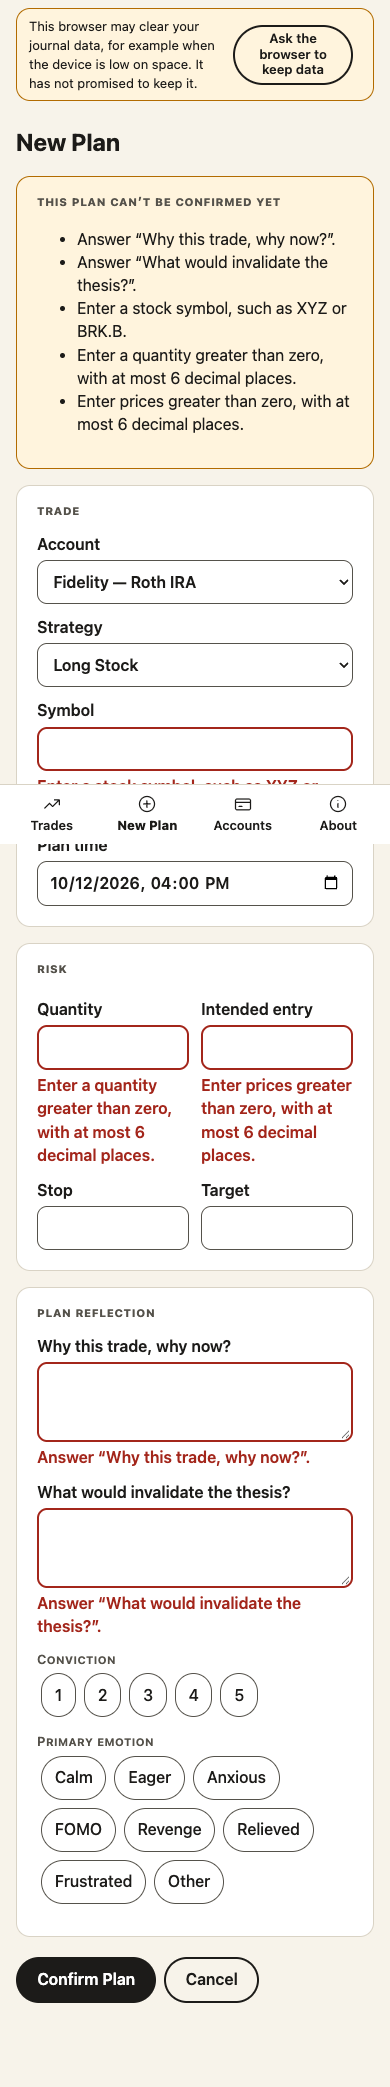
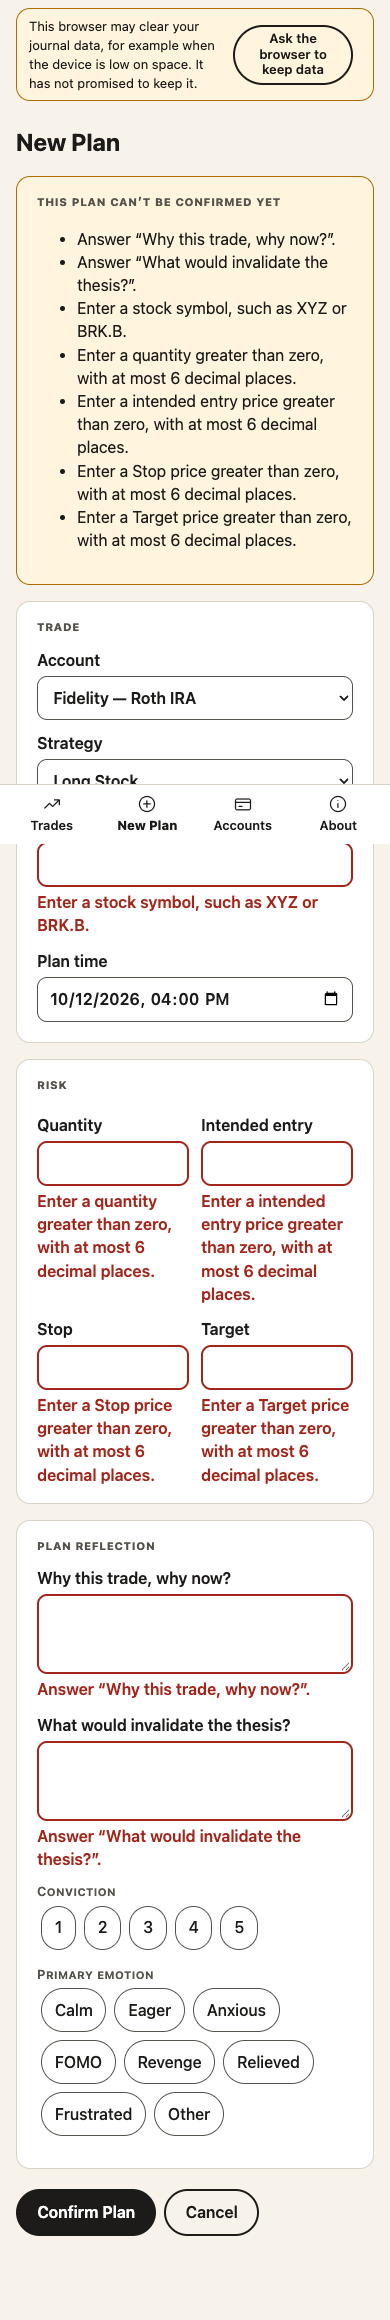
fix(ui): T2.55-B5 price issues on the field that fails
InvalidPrice carries no field from the domain, so the form attaches it to each submitted price that fails the domain's rule and clears each as its own price is corrected. Reference captures for the changed screens are regenerated.

Claude-Session: https://claude.ai/code/session_0115bntoBTHkkC72fZTEU7bt

Changed region(s): [[0.0308, 0.0, 0.9846, 0.9655], [0.8923, 0.654, 0.9231, 0.7786]]

diff --git a/src/ui/screens/PlanForm.test.tsx b/src/ui/screens/PlanForm.test.tsx
@@ -311,23 +311,48 @@ describe('New Plan issues', () => {
     expect(document.activeElement).toBe(screen.getByLabelText('Target'));
   });
 
-  it('should clear an InvalidPrice issue only when the entry, Stop and Target are all valid prices', async () => {
+  it.each([['Stop'], ['Target']])('should attach the price issue to a blank %s, not to the valid Intended entry', async (blank) => {
+    const facade = renderForm();
+    vi.mocked(facade.TradeWorkflows.confirmPlan).mockResolvedValue(rejection([analysis('InvalidPrice')]));
+    const user = await fillPlan();
+    await user.clear(screen.getByLabelText(blank));
+    await user.click(screen.getByRole('button', { name: 'Confirm Plan' }));
+    await screen.findByRole('region', { name: 'This Plan can’t be confirmed yet' });
+    const field = screen.getByLabelText(blank);
+    expect(field.getAttribute('aria-invalid')).toBe('true');
+    expect(described(field)).toMatch(/price greater than zero/i);
+    for (const other of ['Intended entry', 'Stop', 'Target'].filter((name) => name !== blank)) {
+      expect(screen.getByLabelText(other).getAttribute('aria-invalid')).toBeNull();
+      expect(screen.getByLabelText(other).getAttribute('aria-describedby')).toBeNull();
+    }
+    // One summary line for the one failing field.
+    expect(within(screen.getByRole('region', { name: 'This Plan can’t be confirmed yet' })).getAllByRole('listitem')).toHaveLength(1);
+  });
+
+  it('should attach the price issue to every price that fails, and clear each as its own price becomes valid', async () => {
     const facade = renderForm();
     vi.mocked(facade.TradeWorkflows.confirmPlan).mockResolvedValue(rejection([analysis('InvalidPrice')]));
     const user = await fillPlan();
     await user.clear(screen.getByLabelText('Stop'));
-    await user.type(screen.getByLabelText('Stop'), 'abc');
+    await user.clear(screen.getByLabelText('Target'));
+    await user.type(screen.getByLabelText('Target'), 'abc');
     await user.click(screen.getByRole('button', { name: 'Confirm Plan' }));
     await screen.findByRole('region', { name: 'This Plan can’t be confirmed yet' });
-    const entry = screen.getByLabelText('Intended entry');
-    expect(described(entry)).toMatch(/prices greater than zero/i);
+    const [entry, stop, target] = ['Intended entry', 'Stop', 'Target'].map((name) => screen.getByLabelText(name));
+    expect(entry!.getAttribute('aria-invalid')).toBeNull();
+    expect(described(stop!)).toMatch(/Stop price greater than zero/);
+    expect(described(target!)).toMatch(/Target price greater than zero/);
 
-    // The entry alone is valid, but the Stop still is not a price.
-    await user.type(entry, '1');
-    expect(described(entry)).toMatch(/prices greater than zero/i);
-    await user.clear(screen.getByLabelText('Stop'));
-    await user.type(screen.getByLabelText('Stop'), '47.50');
-    expect(entry.getAttribute('aria-describedby')).toBeNull();
+    // The Stop alone is corrected: its issue goes, the Target's stays with the summary.
+    await user.type(stop!, '47.50');
+    expect(stop!.getAttribute('aria-describedby')).toBeNull();
+    expect(stop!.getAttribute('aria-invalid')).toBeNull();
+    expect(described(target!)).toMatch(/Target price greater than zero/);
+    expect(within(screen.getByRole('region', { name: 'This Plan can’t be confirmed yet' })).getAllByRole('listitem')).toHaveLength(1);
+    await user.clear(target!);
+    await user.type(target!, '56.00');
+    expect(target!.getAttribute('aria-describedby')).toBeNull();
+    expect(screen.queryByRole('region', { name: 'This Plan can’t be confirmed yet' })).toBeNull();
   });
 
   it('should clear a MissingInstrument issue only when the symbol matches the symbol rule', async () => {

diff --git a/src/ui/screens/plan-issues.ts b/src/ui/screens/plan-issues.ts
@@ -20,15 +20,33 @@ const ANALYSIS: Record<string, FieldIssue> = {
   TargetNotBeyondEntry: { field: 'target', message: 'The Target must be above the intended entry.' },
   MissingTarget: { field: 'target', message: 'Enter a Target.' },
   InvalidQuantity: { field: 'quantity', message: 'Enter a quantity greater than zero, with at most 6 decimal places.' },
-  InvalidPrice: { field: 'entry', message: 'Enter prices greater than zero, with at most 6 decimal places.' },
   MissingInstrument: { field: 'symbol', message: 'Enter a stock symbol, such as XYZ or BRK.B.' },
   UnderlyingMismatch: { field: 'symbol', message: 'The leg must be in the Plan’s symbol.' },
   StrategyShapeMismatch: { field: 'strategy', message: 'This Plan does not fit the chosen Strategy.' },
 };
 
+export type PriceField = 'entry' | 'stop' | 'target';
+
+const PRICE_LABEL = { entry: 'intended entry', stop: 'Stop', target: 'Target' } as const;
+
+// The domain reports InvalidPrice once, without saying which price failed, so the form says which
+// submitted prices fail the domain's rule (`failing`); the issue goes to each of them, and to the
+// entry when none does (the server may judge more strictly than the form).
+function priceIssues(failing: readonly PriceField[]): FieldIssue[] {
+  return (failing.length > 0 ? failing : (['entry'] as const)).map((field) => ({
+    field,
+    message: `Enter a ${PRICE_LABEL[field]} price greater than zero, with at most 6 decimal places.`,
+    code: 'InvalidPrice',
+  }));
+}
+
 // Plain-language messages for every issue in a rejected confirmation, keyed to their fields.
-export function describeIssues(issues: readonly Issue[], definition: EntryDefinitionRecord): FieldIssue[] {
-  return issues.map((issue): FieldIssue => ({ ...describeIssue(issue, definition), code: issue.code }));
+export function describeIssues(issues: readonly Issue[], definition: EntryDefinitionRecord, failingPrices: readonly PriceField[]): FieldIssue[] {
+  return issues.flatMap((issue): FieldIssue[] =>
+    issue.source === 'TradeAnalysis' && issue.code === 'InvalidPrice'
+      ? priceIssues(failingPrices)
+      : [{ ...describeIssue(issue, definition), code: issue.code }],
+  );
 }
 
 function describeIssue(issue: Issue, definition: EntryDefinitionRecord): FieldIssue {

diff --git a/e2e/d2/ui-alignment.spec.ts b/e2e/d2/ui-alignment.spec.ts
@@ -8,6 +8,7 @@ import {
   confirmReference,
   expect,
   expectAccessible,
+  fillPlan,
   firstPage,
   onboardedD1Page,
   onboardedPage,
@@ -1278,6 +1279,24 @@ test.describe('T2.55-B4 narrow Net cost on an incoherent Open row', () => {
       else expect(tree, `no second line at ${width}`).not.toContain('Net cost');
       // Wide: the Net cost cell itself reads Not available.
       if (width >= WIDE_LAYOUT_MIN_WIDTH) await expect(row.locator('td').nth(2)).toHaveText('Not available');
+      await context.close();
+    });
+  }
+});
+
+test.describe('T2.55-B5 price issues on the field that fails', () => {
+  for (const blank of ['Stop', 'Target'] as const) {
+    test(`should mark a blank ${blank}, not the valid Intended entry, after Confirm Plan`, async ({ server, profile }) => {
+      void server;
+      const context = await profile.launch();
+      const page = await onboardedPage(context);
+      await page.getByRole('navigation', { name: 'Primary' }).getByRole('link', { name: 'New Plan' }).click();
+      await fillPlan(page, { ...PLAN, [blank.toLowerCase()]: '' });
+      await page.getByRole('button', { name: 'Confirm Plan' }).click();
+      await expect(page.getByRole('region', { name: 'This Plan can’t be confirmed yet' })).toBeVisible(READY);
+      await expect(page.getByLabel(blank)).toHaveAttribute('aria-invalid', 'true');
+      await expect(page.getByLabel(blank)).toHaveAccessibleDescription(/price greater than zero/);
+      await expect(page.getByLabel('Intended entry')).not.toHaveAttribute('aria-invalid', 'true');
       await context.close();
     });
   }

diff --git a/src/ui/screens/PlanForm.tsx b/src/ui/screens/PlanForm.tsx
@@ -133,7 +133,13 @@ export function PlanForm({ facade, timeZone, now, onDirtyChange }: PlanFormProps
     // A refusal switches the whole shell to Recovery Only; the form keeps its values.
     report(result);
     if (result.kind === 'Rejected') {
-      setIssues(describeIssues(result.issues, definition));
+      setIssues(
+        describeIssues(
+          result.issues,
+          definition,
+          (['entry', 'stop', 'target'] as const).filter((name) => !positiveDecimal(fields[name])),
+        ),
+      );
       setReported({ fields, answers });
     }
     if (result.kind === 'Confirmed') {
@@ -162,8 +168,6 @@ export function PlanForm({ facade, timeZone, now, onDirtyChange }: PlanFormProps
       case 'quantity':
         return changed('quantity') && positiveDecimal(fields.quantity) !== undefined;
       case 'entry':
-        // InvalidPrice does not say which price was wrong, so it clears when all three are valid.
-        if (issue.code === 'InvalidPrice') return (changed('entry') || changed('stop') || changed('target')) && !!entry && !!stop && !!target;
         return changed('entry') && !!entry;
       case 'stop':
         return (changed('stop') || changed('entry')) && !!stop && (issue.code !== 'NoPositiveRisk' || (!!entry && stop.compare(entry) < 0));

diff --git a/evidence/D02/tdd-log.md b/evidence/D02/tdd-log.md
@@ -727,3 +727,16 @@ Every `it should` case from D2's breakdown, section 4, run red and then green, o
 | T2.55-B4 | should show Net cost once in the accessibility tree of an incoherent Open row at 390 and 320 | red | `npx playwright test e2e/d2/ui-alignment.spec.ts -g "T2.55-B4"` (dist-faults built before the fix) | 2 failed (390, 320): `Net cost line at 390 Expected: 1 Received: undefined`, by hand | |
 | T2.55-B4 | (same) | green | `npm run build:faults && npx playwright test e2e/d2/ui-alignment.spec.ts -g "T2.55-B4"` | 3 passed (1280, 390, 320), by hand | |
 | T2.55-B4 | should show Net cost once in the accessibility tree of an incoherent Open row at 1280 | note | | First-run pass, flagged for the user: the 1280 case passed before the fix because T2.40 already hides `.trade-line` at wide and the Net cost cell reads Not available. Mutation: the wide `.trade-line` rule in `src/ui/app.css` (min-width 960) changed from `display: none` to `display: block`, dist-faults rebuilt. Command: `npx playwright test e2e/d2/ui-alignment.spec.ts -g "T2.55-B4.*at 1280"`. First failure line: `Error: no second line at 1280 ... Expected substring: not "Net cost"`. CSS restored (`git diff -- src/ui/app.css` empty), 3 passed again. | |
+| T2.55-B5 | should attach the price issue to a blank Stop | red | `npx vitest run src/ui/screens/PlanForm.test.tsx -t "should attach the price issue to a blank Stop"` | exit 1; Tests  1 failed, 17 skipped (18) | AssertionError: expected null to be 'true' // Object.is equality  |
+| T2.55-B5 | should attach the price issue to a blank Target | red | `npx vitest run src/ui/screens/PlanForm.test.tsx -t "should attach the price issue to a blank Target"` | exit 1; Tests  1 failed, 17 skipped (18) | AssertionError: expected null to be 'true' // Object.is equality  |
+| T2.55-B5 | should attach the price issue to every price that fails | red | `npx vitest run src/ui/screens/PlanForm.test.tsx -t "should attach the price issue to every price that fails"` | exit 1; Tests  1 failed, 17 skipped (18) | AssertionError: expected 'true' to be null  |
+| T2.55-B5 | should attach the price issue to a blank Stop | green | `npx vitest run src/ui/screens/PlanForm.test.tsx -t "should attach the price issue to a blank Stop"` | exit 0; Tests  1 passed, 17 skipped (18) |  |
+| T2.55-B5 | should attach the price issue to a blank Target | green | `npx vitest run src/ui/screens/PlanForm.test.tsx -t "should attach the price issue to a blank Target"` | exit 0; Tests  1 passed, 17 skipped (18) |  |
+| T2.55-B5 | should attach the price issue to every price that fails | green | `npx vitest run src/ui/screens/PlanForm.test.tsx -t "should attach the price issue to every price that fails"` | exit 0; Tests  1 passed, 17 skipped (18) |  |
+| T2.55-B5 | should attach the price issue to a blank Stop, not to the valid Intended entry | red | `npx vitest run src/ui/screens/PlanForm.test.tsx -t "should attach the price issue to a blank Stop"` | exit 1; `AssertionError: expected null to be 'true'` (Stop was not marked) | |
+| T2.55-B5 | should attach the price issue to a blank Target, not to the valid Intended entry | red | same file, `-t "should attach the price issue to a blank Target"` | exit 1; `AssertionError: expected null to be 'true'` | |
+| T2.55-B5 | should attach the price issue to every price that fails, and clear each as its own price becomes valid | red | same file | exit 1; `AssertionError: expected 'true' to be null` (Intended entry was marked) | |
+| T2.55-B5 | (the three cases) | green | `tdd.sh green` for each | all three exit 0 | |
+| T2.55-B5 | should mark a blank Stop / Target, not the valid Intended entry, after Confirm Plan | red | `npx playwright test e2e/d2/ui-alignment.spec.ts -g "T2.55-B5"` (dist-faults built before the fix) | 2 failed: `toHaveAttribute failed Expected: "true" Received: ""` on the blank field, by hand | |
+| T2.55-B5 | (note) | note | | The old case "should clear an InvalidPrice issue only when the entry, Stop and Target are all valid prices" encoded the defect (the issue on Intended entry, cleared only when all three were valid); it is replaced by the three cases above, which keep U4 per field. | |
+| T2.55-B5 | (browser) | green | `npm run build:faults && npx playwright test e2e/d1 e2e/d2` | 96 passed (2.8m), including both T2.55-B5 cases, by hand | |

diff --git a/evidence/D02/structural.md b/evidence/D02/structural.md
@@ -1887,3 +1887,11 @@ Main-session decision: the third round of swap hardening showed the backup itsel
 - **Cause:** `TradeList` built the Trade cell's second line only for a row with a Net cost value (`derived && netCost.kind === 'Value'`). An incoherent row has no `netCost`, so at narrow, where the Net cost column is hidden, the figure's "Not available" appeared nowhere.
 - **Fix:** the Open row's second line is always `Net cost <figure or Not available>`; wide still hides the line and shows the cell. This also gives a coherent row with no open quantity the same line. The Planned table has the same shape for 1R and Reward : risk on an incoherent Planned row (not in this defect; not changed).
 - **Tests:** a `TradeList` unit case; `T2.55-B4` at 1280, 390 and 320 in `ui-alignment.spec.ts` (fixture `UnknownPlannedLeg` on an Open Trade): the narrow tree has "Net cost Not available" exactly once. The existing disagreeing-row unit assertion now expects the added line.
+
+### T2.55-B5 price issues on the field that fails (critic-5 D5)
+
+- **Cause:** the domain's `assessPlan` returns `InvalidPrice` once, as `{ code }` with no field (the workflow adds only `source`), and the UI's `ANALYSIS` table mapped it to `entry` always. The domain still has no per-field path; it was not changed (the brief said to stop before changing domain types, and the UI already holds the submitted prices and the domain's rule via `positiveDecimal`).
+- **Fix:** `describeIssues` takes the submitted prices and expands `InvalidPrice` into one issue per price that fails `positiveDecimal` (entry, Stop, Target; the entry when none fails locally), each with its own message ("Enter a Stop price greater than zero, with at most 6 decimal places."). `PlanForm.corrected` clears each as its own field becomes valid (the special all-three rule is gone), so U4 and the summary are kept. Public view and domain types are unchanged.
+- **Tests:** three `PlanForm` unit cases (blank Stop, blank Target, several failing with per-field clearing) and `T2.55-B5` in `ui-alignment.spec.ts`.
+
+**Screenshots after T2.55-B1 to B5** (`npm run ui:screenshots`, after the e2e run): committed with B5: 05-new-plan-errors (390, 1280: the empty submission now marks Stop and Target and Intended entry each with its own message), 07-detail-planned (390, 1280: summary text, capped rows), 14-detail-open (390, 1280: capped rows, Last activity), 15-journal (390, 1280: label/value lists capped at 480 px). Reverted as pixel noise: 04-new-plan-1280, 17-about-390 and 17-about-1280 (the release hash differs only).
